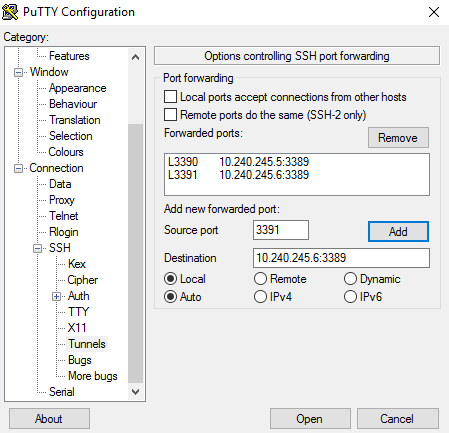
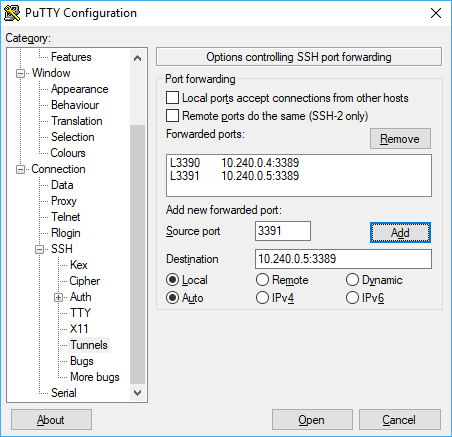
Update doc

Changed region(s): [[0.0, 0.0, 1.0, 1.0]]

diff --git a/docs/ssh.md b/docs/ssh.md
@@ -38,21 +38,21 @@ Pageant enables agent forwarding.  This means that you can SSH from any of the m
 
 The DC/OS admin router requires an SSH tunnel from port 80 to port 80.
 
- 1. Verify you have nothing listening on port 80:
+### Verify you have nothing listening on port 80:
   1. on linux or Mac type `sudo netstat -anpe | grep ":80"` and stop any service or process listening on port 80
   2. on windows, at the command prompt type `netstat -ano | findstr /c:":80"` and stop any service or process listening on port 80.
 
- 2. Get the "sshMaster0" command:
+### Get the "sshMaster0" command:
   1. If using Powershell or CLI, the output parameters are the last values printed
   2. If using Portal, to get the output you need to:
-    1. navigate to "resource group"
-    2. click on the resource group you just created
-    3. then click on "Succeeded" under *last deployment*
-    4. then click on the "Microsoft.Template"
-    5. now you can copy the output of "sshMaster0"
+      1. navigate to "resource group"
+      2. click on the resource group you just created
+      3. then click on "Succeeded" under *last deployment*
+      4. then click on the "Microsoft.Template"
+      5. now you can copy the output of "sshMaster0"
     ![Image of docker scaling](images/findingoutputs.png)
 
-2. SSH to the machine
+### SSH to the machine
   1. on linux or Mac, modify the ssh command from "sshMaster0", and add `-L 80:localhost:80`, then use that command to connect
   2. on Windows, open Putty and in addition to the instructions from [agent forwarding](#key-management-and-agent-forwarding-with-windows-pageant), browse to Connection->SSH->Tunnel and add "80" to Source Port and "localhost:80" to Destination.
   ![Image of putty port 80](images/putty-port80tunnel.png)

diff --git a/docs/kubernetes/windows.md b/docs/kubernetes/windows.md
@@ -46,7 +46,7 @@ Once your Kubernetes cluster has been created you will have a resource group con
 
 1. 1 master accessible by SSH on port 22 or kubectl on port 443
 
-2. a set of windows and linux nodes.  The windows nodes can be accessed through an RDP SSH tunnel via the master node.  To do this, follow these [instructions](../ssh.md#create-port-80-tunnel-to-the-master), replacing port 80 with 3389.  Since your windows machine is already using port 3389, it is recommended to use 3390 to Windows Node 0, 10.240.245.5, 3391 to Windows Node 1, 10.240.245.6, and so on as shown in the following image:
+2. a set of windows and linux nodes.  The windows nodes can be accessed through an RDP SSH tunnel via the master node.  To do this, follow these [instructions](../ssh.md#ssh-to-the-machine), replacing port 80 with 3389.  Since your windows machine is already using port 3389, it is recommended to use 3390 to Windows Node 0, 10.240.0.4, 3391 to Windows Node 1, 10.240.0.5, and so on as shown in the following image:
 
 ![Image of Windows RDP tunnels](../images/rdptunnels.png)
 
